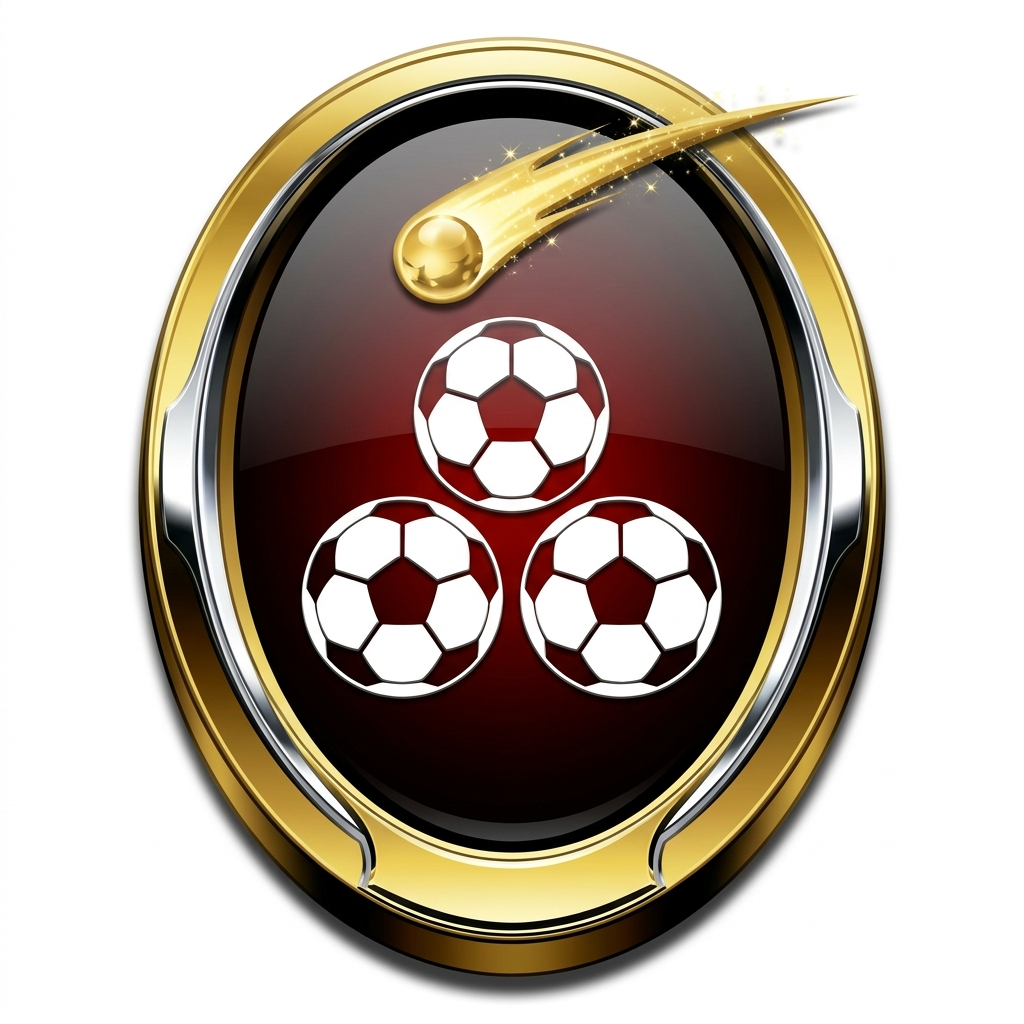
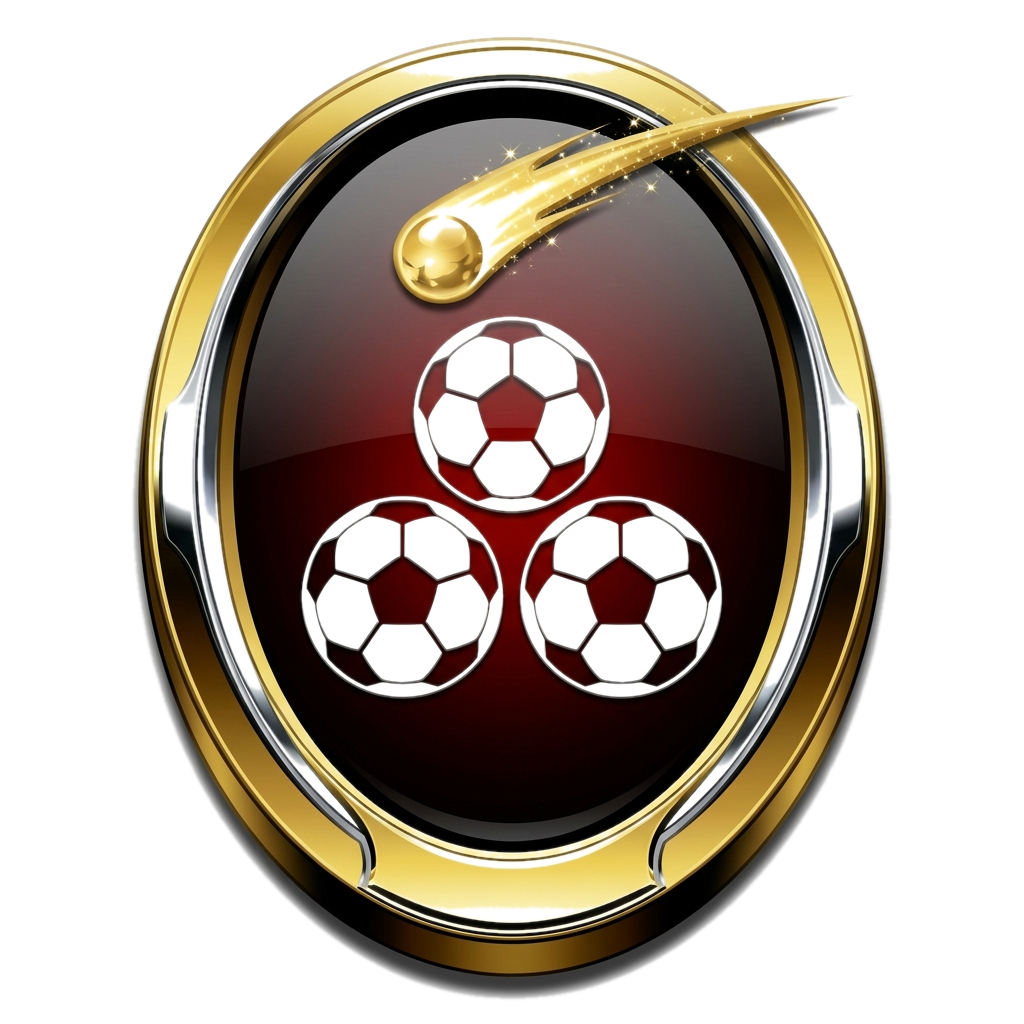
fix(badges): chroma-key all PNG badges to remove pale corners
User complained that First Strike had a white background visible
behind the round medal on the dark BadgesPage cards. Same issue
affected all 30 badge PNGs to varying degrees — generator artifacts
left near-white or pastel corners where the medal didn't cover.

Added scripts/chromakey-badges.py that:
  1. Reads the perimeter of each PNG, samples low-saturation pixels
     only (so a saturated medal rim can't be picked as the bg ref),
     takes the median.
  2. For every pixel, sets alpha=0 if Euclidean colour-distance to
     the bg ref is < 80.
  3. Gaussian-blur AA pass on the alpha channel so cut edges don't
     alias.

Re-ran across all 30 badge PNGs. First Strike's pure-white corners
(255,255,255) are now alpha=0. Most other badges already had near-
black corners (5-15 grayscale) which still get keyed cleanly, so the
script is idempotent + safe.

Verified: center pixel of badge-striker-1.png is alpha=255 (opaque),
corner pixel is alpha=0 (transparent). The medal artwork survives.

diff --git a/scripts/chromakey-badges.py b/scripts/chromakey-badges.py
@@ -1,0 +1,105 @@
+"""Chroma-key every badge-*.png in frontend/public/ to drop the
+pale/white corners that creep in from AI-image-gen artifacts.
+
+Strategy (same one used for the BREZN-letter regen in earlier passes):
+  1. Read 1-pixel strips around all four edges of the image.
+  2. Filter to low-saturation pixels (max(R,G,B) - min(R,G,B) < 30) so
+     a saturated medal rim that happens to touch a corner can't be
+     picked as the bg reference. Take the median of the survivors.
+  3. For every pixel in the image, compute Euclidean colour distance
+     to the bg reference. If < 80, set alpha = 0.
+  4. 1.2 px Gaussian-blur AA pass on the alpha channel so the cut
+     edges aren't aliased.
+  5. Save back as PNG with alpha. Idempotent — re-keying an already-
+     transparent image is a no-op for the medal pixels (they're far
+     from the bg reference) and a tiny smoothing of the alpha edge.
+
+Usage:
+    python scripts/chromakey-badges.py
+"""
+
+from pathlib import Path
+import glob
+import sys
+
+from PIL import Image, ImageFilter
+
+ROOT = Path(__file__).resolve().parent.parent
+PUBLIC = ROOT / "frontend" / "public"
+COLOUR_DISTANCE_THRESHOLD = 80
+LOW_SAT_MAX_DELTA = 30
+ALPHA_BLUR_RADIUS = 1.2
+
+
+def _perimeter_bg_ref(img):
+    """Return an (R, G, B) tuple representing the background colour at
+    the image edges. Filters out saturated pixels so a medal rim that
+    touches a corner can't be picked as the reference.
+    """
+    w, h = img.size
+    px = img.load()
+    samples = []
+    for x in range(w):
+        for y in (0, h - 1):
+            r, g, b = px[x, y][:3]
+            if max(r, g, b) - min(r, g, b) < LOW_SAT_MAX_DELTA:
+                samples.append((r, g, b))
+    for y in range(h):
+        for x in (0, w - 1):
+            r, g, b = px[x, y][:3]
+            if max(r, g, b) - min(r, g, b) < LOW_SAT_MAX_DELTA:
+                samples.append((r, g, b))
+    if not samples:
+        return (255, 255, 255)  # default to white if nothing qualifies
+    samples.sort()
+    return samples[len(samples) // 2]
+
+
+def _chromakey(img, bg_ref):
+    """Return a new RGBA image with bg-distance pixels set to alpha=0."""
+    w, h = img.size
+    rgba = img.convert("RGBA")
+    alpha = Image.new("L", (w, h), 255)
+    rgba_px = rgba.load()
+    alpha_px = alpha.load()
+    br, bg, bb = bg_ref
+    threshold_sq = COLOUR_DISTANCE_THRESHOLD * COLOUR_DISTANCE_THRESHOLD
+    for y in range(h):
+        for x in range(w):
+            r, g, b, _ = rgba_px[x, y]
+            dr = r - br
+            dg = g - bg
+            db = b - bb
+            if (dr * dr + dg * dg + db * db) < threshold_sq:
+                alpha_px[x, y] = 0
+    # Soft AA on the alpha edges
+    alpha = alpha.filter(ImageFilter.GaussianBlur(ALPHA_BLUR_RADIUS))
+    rgba.putalpha(alpha)
+    return rgba
+
+
+def main():
+    pattern = str(PUBLIC / "badge-*.png")
+    files = sorted(glob.glob(pattern))
+    if not files:
+        print(f"No badge PNGs found at {pattern}", file=sys.stderr)
+        sys.exit(1)
+    ok = 0
+    failed = 0
+    for path in files:
+        try:
+            img = Image.open(path)
+            bg = _perimeter_bg_ref(img)
+            keyed = _chromakey(img, bg)
+            keyed.save(path, "PNG", optimize=True)
+            ok += 1
+            # ASCII-only output so Windows charmap consoles don't error
+            print(f"  ok  {Path(path).name}  bg={bg}")
+        except Exception as e:
+            failed += 1
+            print(f"  FAIL {Path(path).name}: {e}", file=sys.stderr)
+    print(f"\nDone. ok={ok} failed={failed} total={len(files)}.")
+
+
+if __name__ == "__main__":
+    main()
